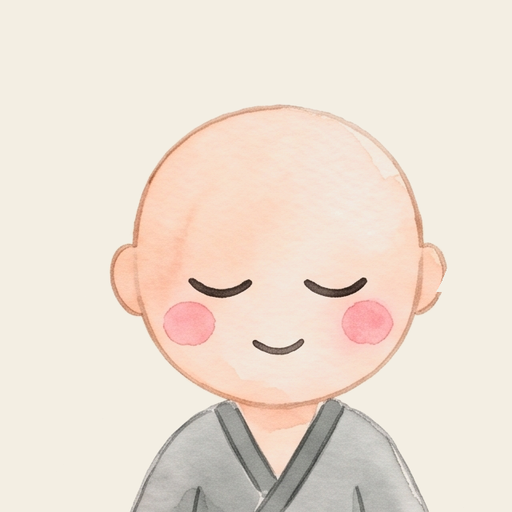
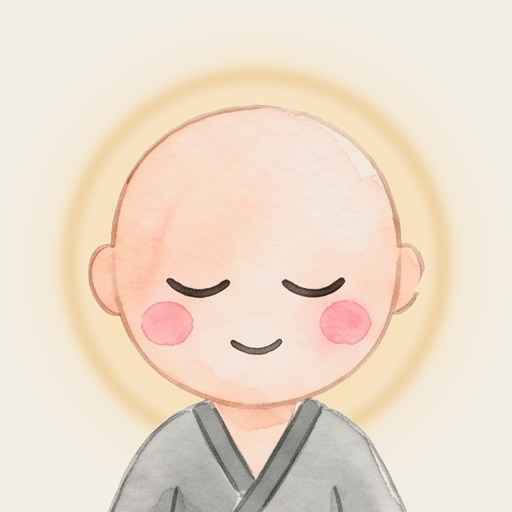
앱 아이콘: 동자승 얼굴 가운데 정렬, 머리 뒤 후광
Claude-Session: https://claude.ai/code/session_01UAJQBENZg7XMnvcHYyBK2f

Changed region(s): [[0.0938, 0.125, 0.9062, 1.0], [0.4375, 0.6562, 0.5938, 0.7188], [0.3438, 0.4688, 0.375, 0.5]]

diff --git a/sw.js b/sw.js
@@ -1,4 +1,4 @@
-const V="hanjul-v19";
+const V="hanjul-v20";
 const CORE=["./","./index.html","./manifest.webmanifest","./img/tree.webp","./img/monk.webp","./img/dbase.webp","./img/dtree.webp","./img/dmonk.webp","./img/lotus.webp","./icons/icon-192.png","./icons/icon-512.png","./icons/apple-touch-icon.png","./icons/favicon.png"];
 self.addEventListener("install",e=>{e.waitUntil(caches.open(V).then(c=>c.addAll(CORE)).then(()=>self.skipWaiting()))});
 self.addEventListener("activate",e=>{e.waitUntil(caches.keys().then(ks=>Promise.all(ks.filter(k=>k!==V).map(k=>caches.delete(k)))).then(()=>self.clients.claim()))});
